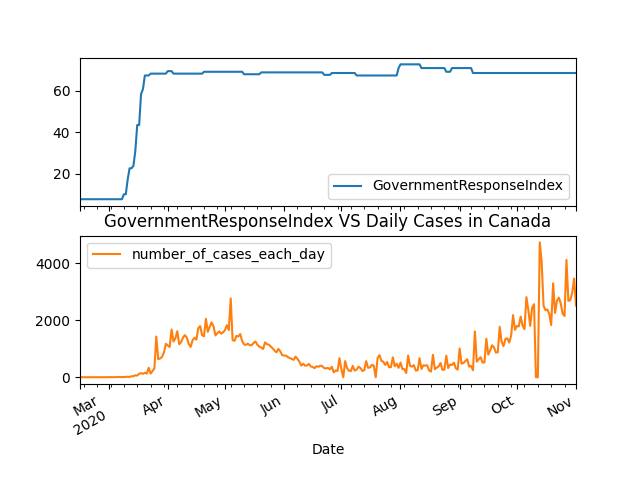
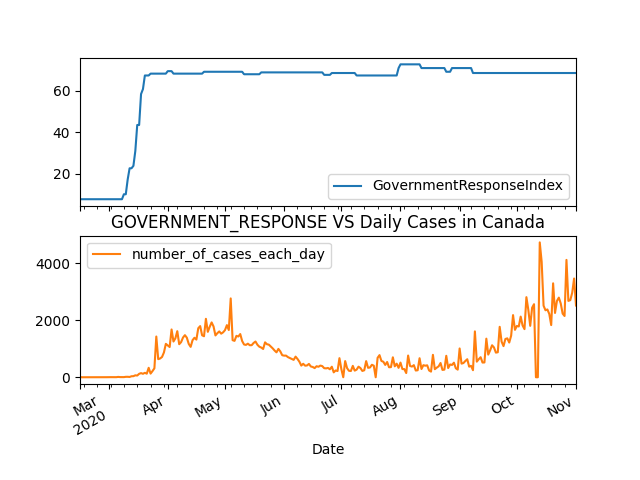
replaced figures, refactored code

Changed region(s): [[0.1562, 0.4375, 0.875, 0.5]]

diff --git a/gilpin/data_visualize.py b/gilpin/data_visualize.py
@@ -2,51 +2,8 @@ import matplotlib.pyplot as plt
 import pandas as pd
 import enum
 
-# Read all data from CSV
-data = pd.read_csv("complete.csv")
-print(data.columns)
-# ['CountryName', 'CountryCode', 'RegionName', 'RegionCode', 'Date',
-#     'C1_School closing', 'C1_Flag', 'C2_Workplace closing', 'C2_Flag',
-#     'C3_Cancel public events', 'C3_Flag', 'C4_Restrictions on gatherings',
-#     'C4_Flag', 'C5_Close public transport', 'C5_Flag',
-#     'C6_Stay at home requirements', 'C6_Flag',
-#     'C7_Restrictions on internal movement', 'C7_Flag',
-#     'C8_International travel controls', 'E1_Income support', 'E1_Flag',
-#     'E2_Debt/contract relief', 'E3_Fiscal measures',
-#     'E4_International support', 'H1_Public information campaigns',
-#     'H1_Flag', 'H2_Testing policy', 'H3_Contact tracing',
-#     'H4_Emergency investment in healthcare', 'H5_Investment in vaccines',
-#     'H6_Facial Coverings', 'H6_Flag', 'M1_Wildcard', 'ConfirmedCases',
-#     'number_of_cases_each_day', 'ConfirmedDeaths', 'StringencyIndex',
-#     'StringencyIndexForDisplay', 'StringencyLegacyIndex',
-#     'StringencyLegacyIndexForDisplay', 'GovernmentResponseIndex',
-#     'GovernmentResponseIndexForDisplay', 'ContainmentHealthIndex',
-#     'ContainmentHealthIndexForDisplay', 'EconomicSupportIndex',
-#     'EconomicSupportIndexForDisplay',
-#     'retail_and_recreation_percent_change_from_baseline',
-#     'grocery_and_pharmacy_percent_change_from_baseline',
-#     'parks_percent_change_from_baseline',
-#     'transit_stations_percent_change_from_baseline',
-#     'workplaces_percent_change_from_baseline',
-#     'residential_percent_change_from_baseline']
 
-# Important Columns: CountryCode, Date, C1 to C8, H1 to H6, ConfirmedCases, ConfirmedDeaths, ContainmentHealthIndex
-data = data[['C1_School closing', 'C2_Workplace closing',
-             'C3_Cancel public events', 'C4_Restrictions on gatherings',
-             'C5_Close public transport', 'C6_Stay at home requirements',
-             'C7_Restrictions on internal movement',
-             'C8_International travel controls', 'E1_Income support',
-             'E2_Debt/contract relief', 'E3_Fiscal measures',
-             'E4_International support', 'H1_Public information campaigns',
-             'H2_Testing policy', 'H3_Contact tracing',
-             'H4_Emergency investment in healthcare', 'H5_Investment in vaccines',
-             'H6_Facial Coverings', "CountryName", "Date", 'ConfirmedCases',
-             'number_of_cases_each_day', 'ConfirmedDeaths', "StringencyIndex",
-             "GovernmentResponseIndex", 'ContainmentHealthIndex', 'EconomicSupportIndex']]
-
-# Format Date
-data['Date'] = pd.to_datetime(data['Date'], format='%Y%m%d')
-print(data.shape)
+COUNTRIES = ['Canada', 'United States', 'United Kingdom', 'France', 'Taiwan']
 
 
 class GroupIndex(enum.Enum):
@@ -57,87 +14,68 @@ class GroupIndex(enum.Enum):
 
 
 class Index(enum.Enum):
-    C1 = "C1_School closing"
-    C2 = "C2_Workplace closing"
-    C3 = "C3_Cancel public events"
-    C4 = "C4_Restrictions on gatherings"
-    C5 = "C5_Close public transport"
-    C6 = "C6_Stay at home requirements"
-    C7 = "C7_Restrictions on internal movement"
-    C8 = "C8_International travel controls"
-    E1 = "E1_Income support"
-    E2 = "E2_Debt/contract relief"
-    E3 = "E3_Fiscal measures"
-    E4 = "E4_International support"
-    H1 = "H1_Public information campaigns"
-    H2 = "H2_Testing policy"
-    H3 = "H3_Contact tracing"
-    H4 = "H4_Emergency investment in healthcare"
-    H5 = "H5_Investment in vaccines"
-    H6 = "H6_Facial Coverings"
+    C1_SCHOOL_CLOSE = "C1_School closing"
+    C2_WORKPLACE_CLOSE = "C2_Workplace closing"
+    C3_CANCEL_PUBLIC_EVENTS = "C3_Cancel public events"
+    C4_RESTRICT_GATHERINGS = "C4_Restrictions on gatherings"
+    C5_CLOSE_PUBLIC_TRANSPORT = "C5_Close public transport"
+    C6_STAY_HOME = "C6_Stay at home requirements"
+    C7_RESTRICT_INTERNAL_MOVEMENT = "C7_Restrictions on internal movement"
+    C8_INTERNATIONAL_TRAVEL = "C8_International travel controls"
+    E1_INCOME_SUPPORT = "E1_Income support"
+    E2_DEBT_RELIEF = "E2_Debt/contract relief"
+    E3_FISCAL_MEASURES = "E3_Fiscal measures"
+    E4_INTERNATIONAL_SUPPORT = "E4_International support"
+    H1_PUBLIC_INFO_CAMPAIGNS = "H1_Public information campaigns"
+    H2_TESTING_POLICY = "H2_Testing policy"
+    H3_CONTACT_TRACING = "H3_Contact tracing"
+    H4_HEALTH_CARE_INVESTMENT = "H4_Emergency investment in healthcare"
+    H5_VACCINE_INVESTMENT = "H5_Investment in vaccines"
+    H6_FACIAL_COVERINGS = "H6_Facial Coverings"
 
 
-def get_country(country):
+def get_country(data, country):
     data_country = data[data['CountryName'] == country]
     data_country = data_country.set_index("Date")
     return data_country
 
 
-def plot_grouped_indices_vs_cases(country):
-    data_country = get_country(country)
-    for index in GroupIndex:
+def plot_indices_vs_cases(data_country, country, index_enum):
+    for index in index_enum:
         data_country_index = data_country[[index.value,
                                            "number_of_cases_each_day"]]
         data_country_index.plot(subplots=True)
-        plt.title(f"{index.value} VS Daily Cases in {country}")
+        plt.title(f"{index.name} VS Daily Cases in {country}")
         plt.savefig(f'./gilpin/figures/{country}_{index.name}.png')
 
 
-def plot_indices_vs_cases(country):
-    data_country = get_country(country)
-    for index in Index:
-        data_country_index = data_country[[index.value,
-                                           "number_of_cases_each_day"]]
-        data_country_index.plot(subplots=True)
-        plt.title(f"{index.value[3:]} VS Daily Cases in {country}")
-        plt.savefig(f'./gilpin/figures/{country}_{index.name}.png')
+def main():
+    # Read all data from CSV
+    data = pd.read_csv("complete.csv")
+
+    # Important Columns: CountryCode, Date, C1 to C8, H1 to H6, ConfirmedCases, ConfirmedDeaths, ContainmentHealthIndex
+    data = data[['C1_School closing', 'C2_Workplace closing',
+                 'C3_Cancel public events', 'C4_Restrictions on gatherings',
+                 'C5_Close public transport', 'C6_Stay at home requirements',
+                 'C7_Restrictions on internal movement',
+                 'C8_International travel controls', 'E1_Income support',
+                 'E2_Debt/contract relief', 'E3_Fiscal measures',
+                 'E4_International support', 'H1_Public information campaigns',
+                 'H2_Testing policy', 'H3_Contact tracing',
+                 'H4_Emergency investment in healthcare', 'H5_Investment in vaccines',
+                 'H6_Facial Coverings', "CountryName", "Date", 'ConfirmedCases',
+                 'number_of_cases_each_day', 'ConfirmedDeaths', "StringencyIndex",
+                 "GovernmentResponseIndex", 'ContainmentHealthIndex', 'EconomicSupportIndex']]
+
+    # Format Date
+    data['Date'] = pd.to_datetime(data['Date'], format='%Y%m%d')
+
+    # Visualize data for all countries
+    for country in COUNTRIES:
+        country_data = get_country(data, country)
+        plot_indices_vs_cases(country_data, country, GroupIndex)
+        plot_indices_vs_cases(country_data, country, Index)
 
 
-# ======= CANADA ========
-data_canada = data[data['CountryName'] == 'Canada']
-data_canada = data_canada.set_index("Date")
-
-# plot_grouped_indices_vs_cases("Canada")
-plot_indices_vs_cases("Canada")
-
-
-# ======= USA ========
-data_usa = data[data['CountryName'] == 'United States']
-data_usa = data_usa.set_index("Date")
-
-# plot_grouped_indices_vs_cases("United States")
-plot_indices_vs_cases("United States")
-
-
-# ======= FRANCE ========
-data_france = data[data['CountryName'] == 'France']
-data_france = data_france.set_index("Date")
-
-# plot_grouped_indices_vs_cases("France")
-plot_indices_vs_cases("France")
-
-
-# ======= United Kingdome ========
-data_uk = data[data['CountryName'] == 'United Kingdom']
-data_uk = data_uk.set_index("Date")
-
-# plot_grouped_indices_vs_cases("United Kingdom")
-plot_indices_vs_cases("United Kingdom")
-
-
-# ======= TAIWAN ========
-data_taiwan = data[data['CountryName'] == 'Taiwan']
-data_taiwan = data_taiwan.set_index("Date")
-
-# plot_grouped_indices_vs_cases("Taiwan")
-plot_indices_vs_cases("Taiwan")
+if __name__ == '__main__':
+    main()
